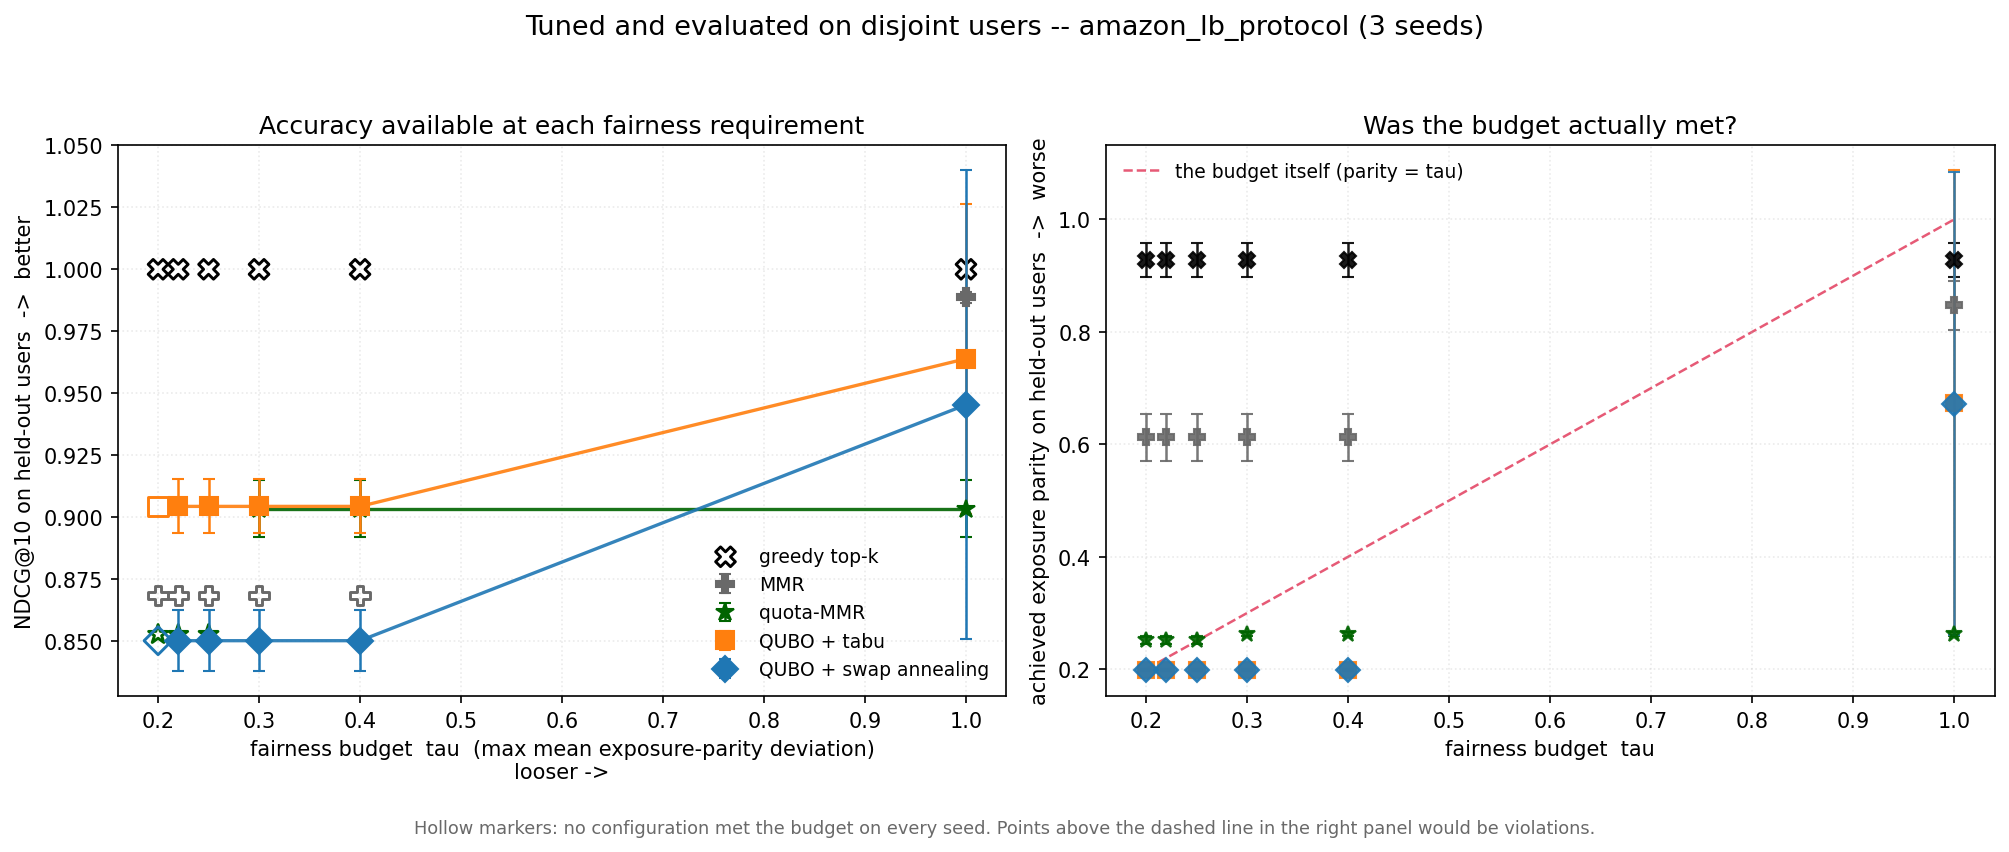
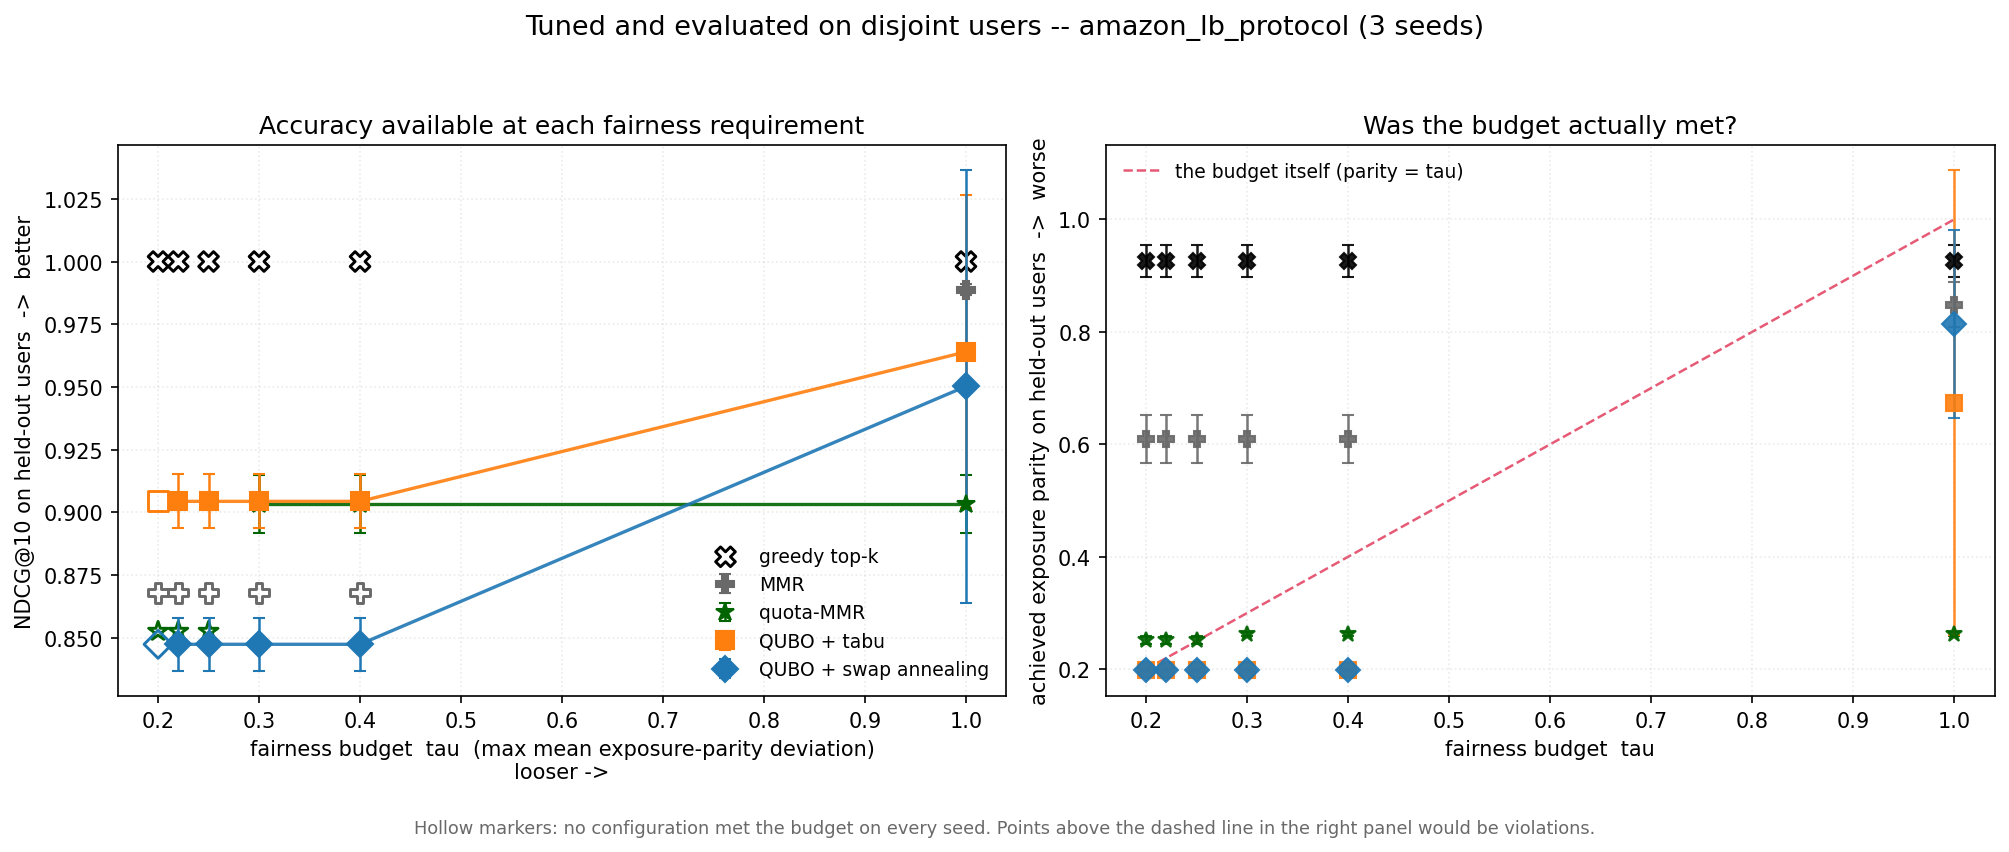
Tabu: expose work-based stopping, and measure why the default stays wall-clock
qubo_tabu was the one solver whose quality depended on the machine: TabuSampler stops on
a 20 ms wall-clock timeout, so a slower CPU does less search. Measured, not assumed --
identical seeds on battery (1.297 GHz) and mains (~3.6 GHz turbo) gave 0.8801 vs 0.8873
NDCG while the two fixed-work solvers were bit-identical. Since the repo's headline
result is this solver's, that qualified the main claim.

num_restarts is now exposed and timeout=None selects work-based stopping. The default
stays at timeout=20, which is the opposite of what I expected to conclude, because the
measurement says so. On Amazon Luxury Beauty, 40 users at lam=0, mu=1:

    timeout=20ms       NDCG 0.8983   parity 0.1992    10.8 s
    num_restarts=50    NDCG 0.8985   parity 0.1992    62.9 s
    num_restarts=200   NDCG 0.8985   parity 0.1992   232.2 s

20 ms already reaches the quality plateau on this hardware, and the last 0.0002 NDCG
costs 6-21x the wall-clock. That also reconciles the battery figure: mains-20ms sits at
the plateau and battery-20ms, with 2.8x less search, sits below it. So the caveat is
real but its magnitude is now quantified rather than hand-waved, and switching the
default would have cost hours of regeneration for two ten-thousandths of a point.

The docstring states plainly that anyone reproducing these numbers on slower hardware
should pass timeout=None, or they will measure their CPU rather than the method.

diff --git a/qubo_rerank/solvers/tabu.py b/qubo_rerank/solvers/tabu.py
@@ -32,13 +32,66 @@ class TabuSearch:
 
     name = "qubo_tabu"
 
-    def __init__(self, num_reads: int = 10, seed: int | None = None) -> None:
+    def __init__(
+        self,
+        num_reads: int = 10,
+        num_restarts: int = 50,
+        timeout: float | None = 20.0,
+        seed: int | None = None,
+    ) -> None:
+        """
+        Args:
+            num_reads: independent runs; the best is kept.
+            num_restarts: tabu restarts per read. **This is the stopping criterion.**
+            timeout: wall-clock cap in milliseconds, or ``None`` for the work-based
+                stopping this class defaults to. Set it only to reproduce the old
+                behaviour deliberately.
+            seed: RNG seed.
+
+        **On the stopping rule, which is worth understanding before changing it.**
+
+        ``TabuSampler`` stops at whichever of ``timeout`` and ``num_restarts`` fires
+        first, and its own default is ``timeout=20`` -- 20 ms of *wall-clock* per read.
+        A solver that stops on elapsed time does less search on a slower machine, so its
+        solution quality becomes a property of the hardware. That is not hypothetical
+        here: running identical seeds with this laptop on battery (CPU pinned to
+        1.297 GHz) and on mains (~3.6 GHz turbo), the two fixed-work solvers returned
+        bit-identical results while this one moved from 0.8801 to 0.8873 NDCG.
+
+        The obvious fix is to stop on work instead. Measured on Amazon Luxury Beauty,
+        40 users at lam=0, mu=1, that costs a great deal for almost nothing:
+
+            timeout=20ms       NDCG 0.8983   parity 0.1992    10.8 s
+            num_restarts=50    NDCG 0.8985   parity 0.1992    62.9 s
+            num_restarts=200   NDCG 0.8985   parity 0.1992   232.2 s
+
+        20 ms already reaches the quality plateau *on this machine*, and buying the last
+        0.0002 NDCG costs 6-21x the wall-clock. That also explains the battery figure:
+        mains-20ms sits at the plateau and battery-20ms, with 2.8x less search, sits
+        below it.
+
+        So the default keeps ``timeout=20`` -- it is Pareto-better here, and it is what
+        every result in ``results/`` was produced with. ``num_restarts=50`` is the
+        work-based plateau and is the setting to use for a portable comparison, by
+        passing ``timeout=None``:
+
+            TabuSearch(num_restarts=50, timeout=None)
+
+        **Anyone reproducing these numbers on slower hardware should do exactly that**,
+        or they will measure their CPU rather than the method.
+        """
         self.num_reads = num_reads
+        self.num_restarts = num_restarts
+        self.timeout = timeout
         self.seed = seed
         self._sampler = TabuSampler()
 
     def solve(self, problem) -> SolveResult:
-        stats: dict[str, Any] = {"num_reads": self.num_reads}
+        stats: dict[str, Any] = {
+            "num_reads": self.num_reads,
+            "num_restarts": self.num_restarts,
+            "work_based_stopping": self.timeout is None,
+        }
 
         with timed(stats, "build_time"):
             rp = build_problem(
@@ -51,7 +104,14 @@ class TabuSearch:
                 targets=problem.targets,
             )
 
-        kwargs: dict[str, Any] = {"num_reads": self.num_reads}
+        kwargs: dict[str, Any] = {
+            "num_reads": self.num_reads,
+            "num_restarts": self.num_restarts,
+        }
+        # dwave-samplers stops at whichever criterion fires first, so a work-based run
+        # needs the clock pushed far enough out that it cannot bind. Passing None is not
+        # accepted; a large finite value is the supported way to disable it.
+        kwargs["timeout"] = float(self.timeout) if self.timeout is not None else 1e9
         if self.seed is not None:
             kwargs["seed"] = self.seed
 

diff --git a/tests/test_solvers.py b/tests/test_solvers.py
@@ -327,3 +327,37 @@ class TestPenaltyBarrier:
         assert qubo_energy(barrier_instance, quota.selection) < qubo_energy(
             barrier_instance, sa.selection
         )
+
+
+class TestTabuStoppingRule:
+    """Tabu stops on wall-clock by default, which makes it the one solver whose quality
+    depends on the machine. Both modes are pinned so the choice stays deliberate."""
+
+    def test_default_is_the_wall_clock_rule_the_results_used(self, instance):
+        result = TabuSearch(seed=0).solve(instance)
+
+        assert result.stats["work_based_stopping"] is False
+
+    def test_timeout_none_selects_work_based_stopping(self, instance):
+        result = TabuSearch(seed=0, num_restarts=20, timeout=None).solve(instance)
+
+        assert result.stats["work_based_stopping"] is True
+        assert result.stats["num_restarts"] == 20
+
+    def test_both_modes_respect_cardinality(self, instance):
+        for solver in (
+            TabuSearch(seed=0),
+            TabuSearch(seed=0, num_restarts=20, timeout=None),
+        ):
+            assert len(solver.solve(instance).selection) == instance.k
+
+    def test_more_restarts_never_returns_a_worse_energy(self, instance):
+        """Work-based stopping should be monotone in the work done.
+
+        Not asserting strict improvement: the plateau is reached early on this problem,
+        which is the measured reason the fast default was kept.
+        """
+        few = TabuSearch(seed=0, num_restarts=5, timeout=None).solve(instance)
+        many = TabuSearch(seed=0, num_restarts=100, timeout=None).solve(instance)
+
+        assert many.stats["energy"] <= few.stats["energy"] + 1e-9
